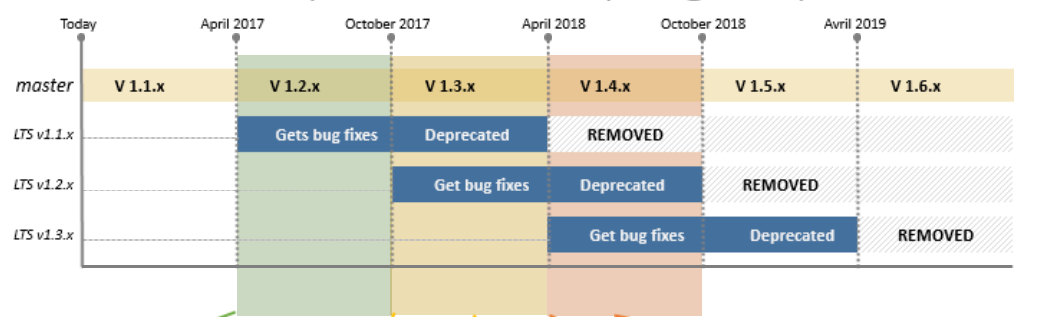
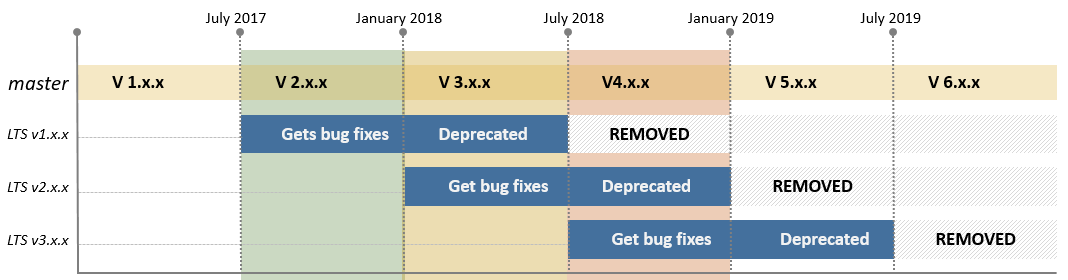
Update LTS document

diff --git a/readme.md b/readme.md
@@ -144,20 +144,30 @@ Contains tools that are currently used in testing the client libraries: Mocking 
 
 Miscellaneous tools: compilembed, mbed_build, traceabilitytool (checks spec requirements vs code implementation).
 
-## Long Term Support branches
+# Long Term Support
 
-The project is using LTS branches to allow users that do not need the latest and greatest features to be shielded from unwanted changes.
+The project offers a Long Term Support (LTS) version to allow users that do not need the latest features to be shielded from unwanted changes.
 
-An LTS branch will be created every 6 months. The lifetime of an LTS branch is currently 1 year.
-LTS branches receive all bug fixes that fall in one of these categories:
+A new LTS version will be created every 6 months. The lifetime of an LTS branch is currently planned for one year. LTS branches receive all bug fixes that fall in one of these categories:
 
 - security bugfixes
 - critical bugfixes (crashes, memory leaks, etc.)
 
-No new features or improvements will be picked up on LTS branches.
+No new features or improvements will be picked up in an LTS branch.
 
-LTS branches are named lts_*mm*_*yyyy*, where *mm* and *yyyy* are the month and year when the branch was created. An example of such a branch is *lts_03_2017*.
+LTS branches are named lts_*mm*_*yyyy*, where *mm* and *yyyy* are the month and year when the branch was created. An example of such a branch is *lts_07_2017*.
 
+## Schedule<sup>1</sup>
+
+Below is a table showing the mapping of the LTS branches to the packages released
+
+| Package | Github Branch | LTS Status | LTS Start Date | Maintenance End Date | Removed Date |
+| :-----------: | :-----------: | :--------: | :------------: | :------------------: | :----------: |
+| 1.x.x         | lts_07_2017   | Active     | 2017-07-01     | 2017-12-31           | 2018-06-30   |
+
+* <sup>1</sup> All scheduled dates are subject to change by the Azure IoT SDK team.
+
+### Planned Release Schedule
 ![](./lts_branches.png)
 
 ---
